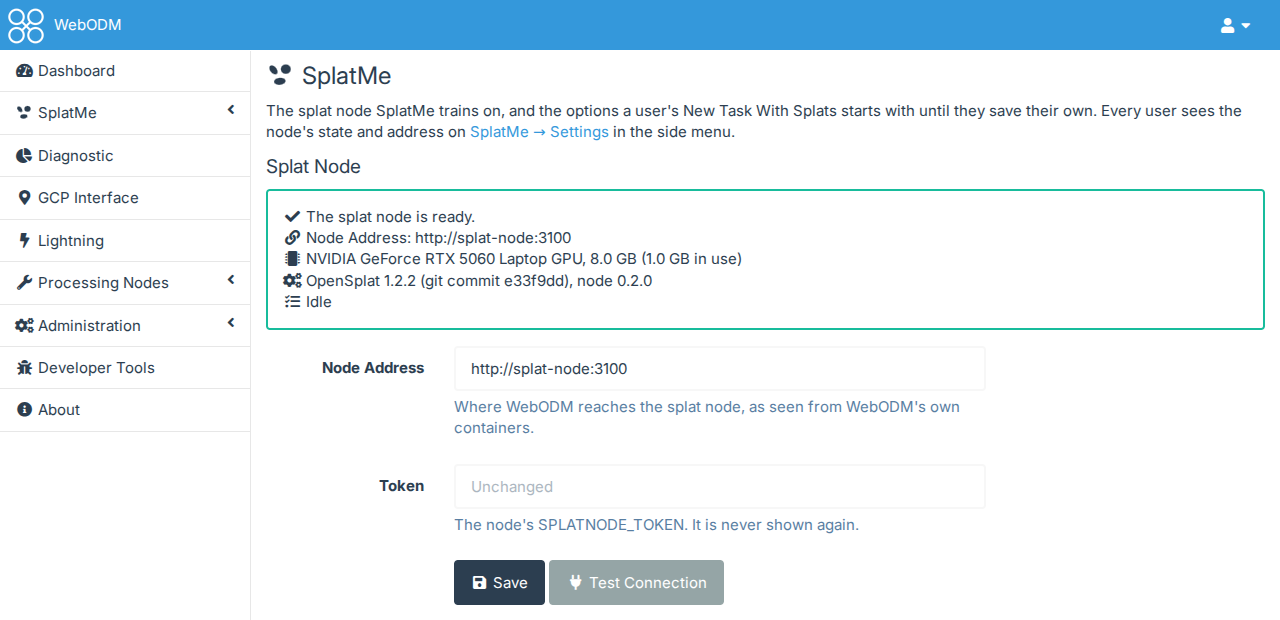
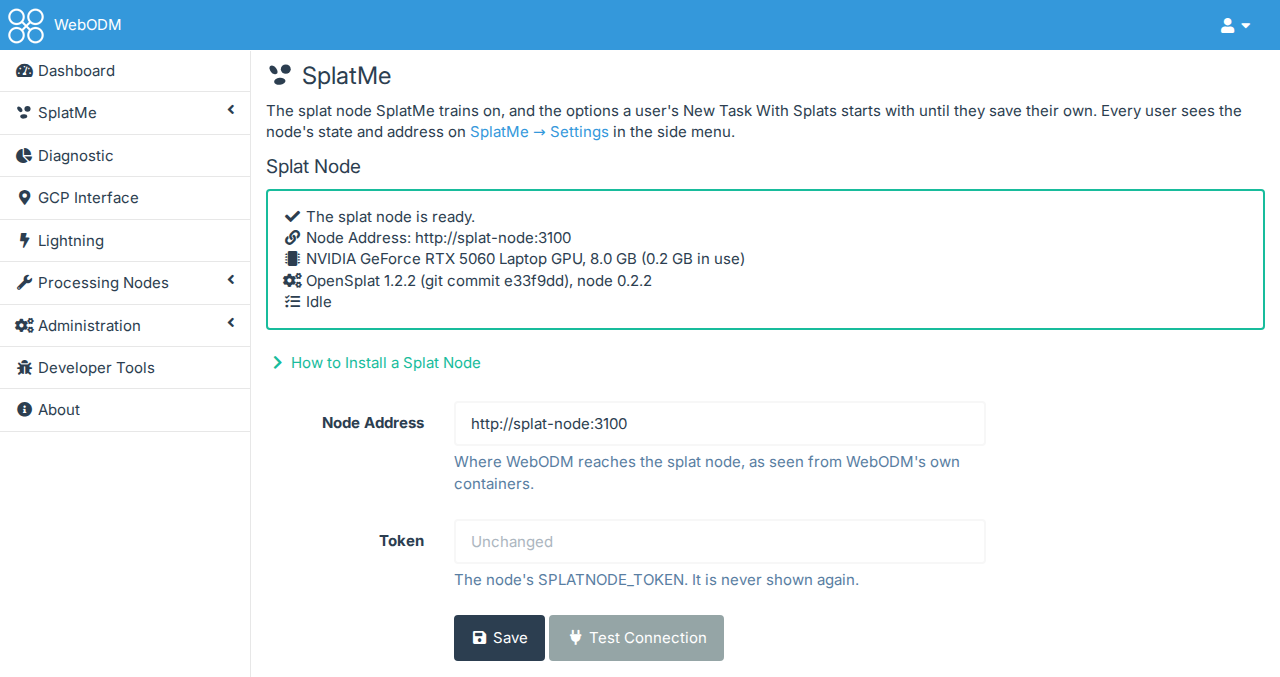
Docs: the review of 0.2.0's corrections and removals
Corrected against the code and the release: the image's size (4 GB download, 6.6 GB unpacked), the
install with several WebODMs (it stops and names them), continuing (more steps than the model has
grows it), the buttons' names (DJI Thermal Task, Train Splats Again), who sees Administration → SplatMe,
the uninstall's questions, the API's CSRF rule, log offset, listed and revive, the pages' wording
(splat model, gaussians, SplatMe → Settings, a node on another machine), CLAUDE.md's file lists, and the
Administration screenshot (node 0.2.2, How to Install a Splat Node). Removed what does not help the
reader: WebODM's internals and SplatMe's history, repetition, and the README's Requirements and
Status (on the docs' Home).

diff --git a/splatme/public/OptionsFields.jsx b/splatme/public/OptionsFields.jsx
@@ -94,7 +94,7 @@ export default class OptionsFields extends React.Component {
                     <React.Fragment>
                         {this.numberField("steps", _("Steps"), _(STEPS_HINT), "", <StagesTable total={form.steps} />)}
                         {this.numberField("image_size", _("Image Size"), _("The photos' longer side in pixels as the trainer sees them. Larger photos are scaled down whole, so each keeps its full view: nothing is cropped, only fine detail is lost. GPU memory depends on it most: lower it when the GPU runs out of memory. 0 keeps the photos as they are."), "", <ImageSizeTable photoSizes={this.props.photoSizes} imageSize={form.image_size} />)}
-                        {this.numberField("max_gaussians", _("Max Gaussians"), _("The most points the model may grow to, a limit for very large scenes. When the GPU runs out of memory, lower Image Size first."), _("The trainer's own limit"))}
+                        {this.numberField("max_gaussians", _("Max Gaussians"), _("The most gaussians the model may grow to, a limit for very large scenes. When the GPU runs out of memory, lower Image Size first."), _("The trainer's own limit"))}
                     </React.Fragment> : ""}
             </React.Fragment>
         );

diff --git a/splatme/templates/node.html b/splatme/templates/node.html
@@ -24,7 +24,7 @@ behind a link under it. The token is never shown.
         <p>The splat node trains the splats, in a container on a machine with an NVIDIA GPU (GTX 16 or RTX 20 to
             RTX 50 series). That machine needs the GPU's driver, Docker with Compose v2, and the
             <a href="https://docs.nvidia.com/datacenter/cloud-native/container-toolkit/latest/install-guide.html" target="_blank" rel="noopener noreferrer">NVIDIA Container Toolkit</a>.
-            The install downloads the node's image (6.6 GB), checks the GPU and starts the node; run it in a terminal
+            The install downloads the node's image (4 GB; 6.6 GB once unpacked), checks the GPU and starts the node; run it in a terminal
             on that machine.</p>
         <ul class="nav nav-tabs" role="tablist">
             <li role="presentation" class="active"><a href="#splatme-pane-here" role="tab" id="splatme-tab-here" aria-controls="splatme-pane-here" aria-selected="true">On WebODM's Machine</a></li>

diff --git a/splatme/public/TrainDialog.jsx b/splatme/public/TrainDialog.jsx
@@ -84,7 +84,7 @@ export default class TrainDialog extends React.Component {
                 {((check || {}).warnings || []).map((warning, i) =>
                     <div key={i} className="alert alert-warning"><i className="fa fa-exclamation-triangle"></i> {warning}</div>)}
                 {check && check.has_splats && !blocked && !resume ?
-                    <div className="alert alert-info">{_("This task already has a splats model. The new one replaces it when the training succeeds.")}</div> : ""}
+                    <div className="alert alert-info">{_("This task already has a splat model. The new one replaces it when the training succeeds.")}</div> : ""}
                 {error ? <div className="alert alert-danger">{error}</div> : ""}
                 <form className="form-horizontal" onSubmit={e => { e.preventDefault(); this.handleStart(); }}>
                     {trained > 0 && !blocked ?

diff --git a/splatme/templates/options.html b/splatme/templates/options.html
@@ -51,7 +51,7 @@ shared (the admin page) the administrators', for users who saved none, which onl
         <label class="col-sm-3 control-label" for="splatme-auto-gaussians">Max Gaussians</label>
         <div class="col-sm-9">
             <input type="number" min="1" class="form-control" id="splatme-auto-gaussians" placeholder="The trainer's own limit">
-            <span class="help-block">The most points the model may grow to, a limit for very large scenes. When the GPU
+            <span class="help-block">The most gaussians the model may grow to, a limit for very large scenes. When the GPU
                 runs out of memory, lower Image Size first.</span>
         </div>
     </div>

diff --git a/splatme/templates/settings.html b/splatme/templates/settings.html
@@ -6,7 +6,7 @@ SplatMe → Settings, for everyone: the splat node's state and address, and the 
 The node's settings are on the admin page (admin.html), under Administration.
 {% endcomment %}
 <h3><i class="fa fa-splat fa-fw"></i> SplatMe Settings</h3>
-<p>Trains a task's Gaussian splats on a splat node: a container with a GPU that runs beside WebODM. Training starts
+<p>Trains a task's Gaussian splats on a splat node: a container on a machine with an NVIDIA GPU, WebODM's or another. Training starts
     from <b>Train Splats</b> on <a href="/plugins/splatme/">SplatMe → Tasks</a>, or by itself when a task created
     with <b>New Task With Splats</b> completes.</p>
 

diff --git a/splatme/public/TrainSplats.jsx b/splatme/public/TrainSplats.jsx
@@ -49,7 +49,7 @@ export default class TrainSplats extends React.Component {
     };
 
     handleCancel = () => {
-        if (!window.confirm(_("Stop this training? The task keeps the splats model it has."))) return;
+        if (!window.confirm(_("Stop this training? The task keeps the splat model it has."))) return;
         this.setState({canceling: true, error: null});
         request("POST", "task/" + this.props.taskId + "/cancel").then(status => {
             if (this._mounted) this.setStatus(status);

diff --git a/splatme/templates/admin.html b/splatme/templates/admin.html
@@ -14,6 +14,6 @@ token, and the New Task With Splats options for users who saved none of their ow
 {% include node_part with editable=True %}
 
 <h4>New Task With Splats Defaults</h4>
-<p>What SplatMe's panel starts with for a user who has not saved options of their own on the SplatMe page.</p>
+<p>What SplatMe's panel starts with for a user who has not saved options of their own on SplatMe → Settings.</p>
 {% include options_part with shared=True %}
 {% endblock %}

diff --git a/docs/using.md b/docs/using.md
@@ -4,8 +4,8 @@
 
 Every user sees on **SplatMe → Settings** in the side menu whether the node is ready, its address, its GPU and
 its queue (never the token, and what is wrong with the node only as "ask an administrator"). The node's address
-and token are on **Administration → SplatMe** (superusers): WebODM has no plugin hook for Administration, so
-SplatMe adds its item to the list as WebODM 4.0.0 draws it; the page itself is at `/plugins/splatme/admin/`.
+and token are on **Administration → SplatMe** (staff see it, superusers change it), also at
+`/plugins/splatme/admin/`.
 
 1. **Train**: on **SplatMe → Tasks** in the side menu, which lists the tasks SplatMe can train in the projects
     the user can see (a **Project** filter narrows it), press **Train Splats** on a completed task. A task is
@@ -23,10 +23,8 @@ SplatMe adds its item to the list as WebODM 4.0.0 draws it; the page itself is a
     **Advanced** has the steps, the image size and the most gaussians as numbers:
     - **Steps**: the trainer grows the model (adds gaussians where the photos show detail it lacks) in the first
       half of the steps, up to step 15,000, then refines it; steps beyond 30,000 only refine it. A table under
-      the number gives the share of the steps in each stage, with how many times the model is grown: **Warm-up**
-      (the starting points from the point cloud adjusted), **Growing**, **Refining** (the model adjusted once
-      every 32 photos, faint gaussians removed every 3,000 steps) and **Polishing** (the same, once every 64
-      photos); each heading's hover tip says what the stage does. A number of steps the trainer handles badly
+      the number gives the share of the steps in each stage (**Warm-up**, **Growing**, **Refining**,
+      **Polishing**), with how many times the model is grown; each heading's hover tip says what the stage does. A number of steps the trainer handles badly
       gets a note: up to 2,000 steps grows no new gaussians, and 3,001 to 5,999 trains worse than 3,000.
     - **Image Size** (1,600 by default): the photos' longer side as the trainer sees them. Larger photos are
       scaled down whole, so each keeps its full view: nothing is cropped, only fine detail is lost; smaller ones
@@ -39,8 +37,7 @@ SplatMe adds its item to the list as WebODM 4.0.0 draws it; the page itself is a
 
     **Ignore Sky** is for photos that show the sky, which a training otherwise turns into haze around the
     model: SplatMe finds the sky in each photo and the training leaves those pixels out. It looks only above
-    each photo's horizon, known from where the camera pointed, so photos that look down are not searched. Finding the sky takes a few minutes more (about 0.2 s a
-    photo on WebODM's CPU), and the task's line then says in how many photos it was found. The first training
+    each photo's horizon, known from where the camera pointed, so photos that look down are not searched. Finding the sky takes a few minutes more, and the task's line then says in how many photos it was found. The first training
     with it downloads the sky model (180 MB, the one ODX uses for its sky removal) from ODX's releases on
     github.com into WebODM's media folder (`plugins/splatme/models`), so WebODM must reach that address once.
 
@@ -49,38 +46,34 @@ SplatMe adds its item to the list as WebODM 4.0.0 draws it; the page itself is a
     model the task shows, as the processing leaves them out of the point cloud and the mesh. The training itself still sees the
     photos whole, and the model kept for continuing is not cropped.
 
-    **Thermal tasks**: a task made by the DJI Thermal Analyzer plugin's Thermal Task button holds TIFFs of
+    **Thermal tasks**: a task made by the DJI Thermal Analyzer plugin's **DJI Thermal Task** button holds TIFFs of
     temperatures, which SplatMe draws as pictures to train on. It uses one range for the whole task, from its coldest to its hottest pixels (the coldest and hottest 1% left
     out), so a surface has the same colour in every photo. **Thermal Colours** in the dialog, which takes the
     place of Ignore Sky, chooses the palette: Grayscale (white is hot, the default), Black Hot, Iron, Magma,
-    Inferno, Plasma, Viridis, Cividis or Jet (all but Iron are WebODM's own colour maps). The task's line then
+    Inferno, Plasma, Viridis, Cividis or Jet. The task's line then
     names the palette and the temperatures it spans, in WebODM's unit system. Thermal photos are small (640 × 512
     on DJI's M4T): training takes about a quarter of the times above and about 1 GB of GPU memory, and Fine is
-    much sharper than Standard. DJI Thermal Analyzer itself need
-    not be installed for this; TIFFs from other software, whose temperatures may be in another unit, are not
-    listed.
+    much sharper than Standard. TIFFs from other software are not listed.
 
-    A task SplatMe has trained can be trained further instead of starting over: the dialog then opens with
+    A task SplatMe has trained can be trained further instead of starting over: **Train Splats Again** then opens with
     **Start Over** and **Continue From Step** (the steps the model has), and continuing asks only **More
     Steps**. The other options stay as the model was trained. Continuing sharpens the model the task has: the
     model grows only before half the new total of steps (and before step 15,000), so continuing a model by as
-    many steps again, or beyond, adds no gaussians (the steps table says so), and a model that lacks detail
+    many steps again, or fewer, adds no gaussians (the steps table says so), and a model that lacks detail
     everywhere is better started over at a higher Quality. Processing the task again, or uploading another model in WebODM's Splats dialog, ends what can
     be continued. A task processed again while its splats train has that training canceled (its model would not
     fit the new results), and is trained again on the new results when it is set to Train Splats When Completed.
 2. **Follow it**: the task's row shows the stage (while training, the step, such as "Step 4,650 of 7,000,
     about 12 min left": the time the steps left take at the rate of the last few minutes, once it can tell), a
     progress bar, **Cancel** and **Show Log** (the trainer's output), to everyone who can see the task and after
-    a reload. A download of the model that stops is tried again, and a node that stops answering (being
-    upgraded) is waited for up to an hour. When it is done, **View in 3D** opens the model. A task that cannot be trained (failed or canceled
+    a reload. A download of the model that stops is tried again, and a node that stops answering, or answers an
+    error (being upgraded), is waited for up to an hour. When it is done, **View in 3D** opens the model. A task that cannot be trained (failed or canceled
     processing; for users who may only look at the project, any task) says why.
 
     On the Dashboard, a task's panel has a **Splats** line under its Task ID ("Trained, 7,000 steps", or the
     training's step) with **Open in SplatMe**, which opens the Tasks page at that task (for a task SplatMe can
-    train; another says that SplatMe trains tasks whose photos are JPEG). A task's name on the Tasks page opens the
-    Dashboard at its panel, with only its project shown. Training is not in the
-    task's panel itself: WebODM keeps only the first plugin's answer to that panel's hook, so a SplatMe button
-    there dropped other plugins' buttons (such as Lightning's Share).
+    train; another says why SplatMe does not list it). A task's name on the Tasks page opens the Dashboard at its
+    panel, with only its project shown.
 
 3. **Train automatically**: on **SplatMe → Tasks**, press **New Task With Splats** in a project's heading
     (or beside **Select Images and GCP** in a project on the Dashboard, which opens it there) and pick the
@@ -89,30 +82,23 @@ SplatMe adds its item to the list as WebODM 4.0.0 draws it; the page itself is a
     Completed**, ticked, with the Quality, Ignore Sky (or Thermal Colours when the photos picked are TIFFs), Crop
     To Boundary and Advanced. While Train Splats When Completed is ticked, photos SplatMe cannot train (not JPEG,
     nor all DJI Thermal Analyzer's TIFFs) are named there and hold up Start Processing. On **Start Processing**,
-    SplatMe creates the task through WebODM's API, saves its training setting, uploads the files (a large file
-    in parts; a file whose part is lost is sent again from its first part, as WebODM appends parts) and starts its processing; the row then follows the
+    SplatMe creates the task through WebODM's API, saves its training setting, uploads the files and starts its processing; the row then follows the
     processing (its progress, and WebODM's error if it fails) and the training. If some files still fail,
     **Try Again** sends them, or **Cancel** removes the task. Leaving the page during the upload stops it, and
     another New Task With Splats waits until it is done.
     Unticked, or made from WebODM's own Select Images and GCP, the task is an ordinary one. The panel
     starts with the user's own options, saved on **SplatMe → Settings** (**New Task With Splats**); until they
     save some, with the administrators' defaults from **Administration → SplatMe** (High until they change
-    them). On **SplatMe → Tasks**, every task shows **Train Splats When Completed** with **Change**, which
-    switches the training on or off and changes its options. A training that could not start shows on the task
+    them). On **SplatMe → Tasks**, a task's row shows **Train Splats When Completed** (On or Off), with **Change**
+    for those who may train it, which switches the training on or off and changes its options. A training that could not start shows on the task
     as a failed training, with the reason.
 
-    WebODM has no plugin hooks for the Dashboard's button and the task panel's line, so SplatMe puts them in the
-    page as WebODM 4.0.0 draws it (the button beside other plugins' buttons, such as DJI Thermal Analyzer's). If
-    a WebODM version draws its page differently, they are not there, and the Tasks page still creates, trains
-    and sets the training.
+    If another WebODM version draws its Dashboard differently, the button and the line are missing; the Tasks
+    page still creates, trains and sets the training.
 
-Training needs the right to change the task's project. The task must have completed with a point cloud and
-still have its photos (JPEG, or DJI Thermal Analyzer's TIFFs). The trained model replaces the task's splat model only when training succeeds,
-and then shows in the task's 3D view like a model uploaded by hand. WebODM converts it for its viewer with its
-own converter, as it does a model uploaded by hand; the model as the trainer wrote it is kept in the task's
-folder (`assets/splats/splatme-model.ply`, about 250 bytes per gaussian) for continuing, and counts in the
+Training needs the right to change the task's project. The trained model replaces the task's splat model only
+when training succeeds, and then shows in the task's 3D view like a model uploaded by hand; the model as the
+trainer wrote it is kept in the task's folder (`assets/splats/splatme-model.ply`, about 250 bytes per gaussian) for continuing, and counts in the
 task's size.
 
-A training takes a place in WebODM's worker only while it exports the task and while it imports the model:
-while the node has trainings (queued or training), one place follows them all, so many trainings waiting on the
-node do not hold up WebODM's own processing.
+Trainings waiting on the node do not hold up WebODM's own processing.

diff --git a/docs/api.md b/docs/api.md
@@ -1,6 +1,7 @@
 # The Plugin's API
 
-Under `/api/plugins/splatme/`, with a WebODM login.
+Under `/api/plugins/splatme/`, with a WebODM login. A POST also needs the session's CSRF token (`X-CSRFToken`), as
+WebODM routes a plugin's API through a plain Django view.
 
 | Request | Does |
 |---|---|
@@ -8,12 +9,13 @@ Under `/api/plugins/splatme/`, with a WebODM login.
 | `POST node` (`url`, `token`, `save`) | Administrators: sets the address and token; with `save` false only tries them |
 | `GET task/<id>/check` | Before training: why the task or the node cannot train, warnings, the options' ranges, `boundary` (whether the task was processed with one), `thermal` (whether its photos are DJI Thermal Analyzer's TIFFs), `photo_sizes` (the photos' `[width, height]`, one per camera, empty before processing) and `trained_steps`: the steps of the model a training can continue from |
 | `POST task/<id>/train` | Trains a completed task's splats. Options: `steps` (30000), `image_size` (1600, the photos' longer side in pixels, larger photos scaled down whole; 0 keeps them as they are), `max_gaussians`, `sh_degree`, `ignore_sky` (true leaves the sky out; not for a thermal task), `crop` (false keeps the splats outside the task's boundary), `palette` (a thermal task's colours: `gray`, the default, `gray_r`, `iron`, `magma`, `inferno`, `plasma`, `viridis`, `cividis`, `jet`). With `resume` true it continues the task's trained model: `steps` is then how many more, and the other options are the ones that model was trained with |
-| `GET task/<id>/status` | The job's `state`, `progress`, `status`, `error`, `sky_masks` (in how many photos sky was found, with `ignore_sky`), `cropped` (the gaussians left out for being outside the boundary), `thermal` (a thermal task's `palette` and the range it spans, `low` and `high`, in degrees Celsius), `time_left` (while training, the seconds the steps left should take, once known), whether the task has a splat model and whether the user may train it; for a task set to train, `listening` (whether WebODM's worker tells the plugin of completed tasks) |
+| `GET task/<id>/status` | The job's `state`, `progress`, `status`, `error`, `sky_masks` (in how many photos sky was found, with `ignore_sky`), `cropped` (the gaussians left out for being outside the boundary), `thermal` (a thermal task's `palette` and the range it spans, `low` and `high`, in degrees Celsius), `time_left` (while training, the seconds the steps left should take, once known), whether the task has a splat model and whether the user may train it; for a task set to train, `listening` (whether WebODM's worker tells the plugin of completed tasks). With `?listed=1` also `listed`, whether SplatMe → Tasks lists the task, and `unlisted`, why not |
 | `POST task/<id>/cancel` | Stops the job |
-| `GET task/<id>/log?offset=<bytes>` | The trainer's output |
+| `GET task/<id>/log?offset=<bytes>` | The trainer's output from that byte on; the offset to ask from next is in the `X-Log-Offset` header |
 | `GET task/<id>/auto` | Whether the task is trained when it completes, with which options |
 | `POST task/<id>/auto` | Sets that for the task: `enabled` and the options of `train` |
 | `GET automation` | The options SplatMe's panel starts with for the user's new task: their own (`own` true) or the administrators' defaults, and `listening`, whether WebODM's worker tells the plugin of completed tasks. With `?ranges=1` also the node's range of each option |
 | `POST automation` (options) | Saves the user's own options; with `reset` true drops them |
 | `GET automation/shared`, `POST automation/shared` (options) | The administrators' defaults, for users who saved none of their own; superusers set them |
+| `GET revive` | Takes over the trainings that lost their worker (WebODM's pages ask it); answers 204 |
 | `GET tasks` | The tasks SplatMe can train in the projects the user may see (`?project=<id>` for one), by project (a project with none is left out), each with WebODM's `status`, `running_progress` and `last_error`, and its `splats` as `task/<id>/status` gives them; and `addable`, the projects the user may add a task to: SplatMe's Tasks page, in one request |

diff --git a/docs/install.md b/docs/install.md
@@ -12,23 +12,19 @@ By a WebODM administrator, in this order:
     Plugin (.zip)** on the same page.
 2. **Restart WebODM once**, with the options it was started with: `./webodm.sh restart` in WebODM's folder,
     plus any options given to `./webodm.sh start` (`--port`, `--hostname`, `--media-dir`, `--ssl`…), which
-    `webodm.sh` does not remember. WebODM's web server runs several
-    processes and only the one that received the plugin loads it, so until the restart SplatMe's pages, scripts
-    and API fail now and then; and WebODM's worker, which tells SplatMe a task has completed, loads plugins only
-    when it starts. Until then SplatMe → Settings, SplatMe's panel and a task set to train say that tasks are
-    not trained by themselves yet.
+    `webodm.sh` does not remember. Until then SplatMe's pages fail now and then, and tasks are not trained by
+    themselves (SplatMe → Settings, SplatMe's panel and a task set to train say so).
 3. **The splat node**, on the machine with the GPU:
 
     ```
     curl -fsSL https://github.com/WinuxNomacs/webodm-splatme/releases/latest/download/splatnode.sh | bash -s install
     ```
 
-    It downloads the node's image (6.6 GB; deleted again when a container cannot use the GPU), checks the GPU and
+    It downloads the node's image (4 GB; 6.6 GB once unpacked; deleted again when a container cannot use the GPU), checks the GPU and
     starts the node; a failed install is undone, so it can be run again. **On WebODM's machine** the node joins
-    the Docker network of WebODM's worker (which runs the trainings; behind a reverse proxy WebODM's web server is
-    on the proxy's network too), listens on that machine only, and SplatMe's settings get
-    its address and token: there is nothing to enter. (With several WebODMs on the machine, it names them and
-    asks for one: `--webodm <its webapp container>`. A node installed before the plugin is connected afterwards
+    the Docker network of WebODM's worker, listens on that machine only, and SplatMe's settings get
+    its address and token: there is nothing to enter. (With several WebODMs on the machine, it stops and names
+    them: run it again with `--webodm <its webapp container>`. A node installed before the plugin is connected afterwards
     with `connect`, which also moves the node to a reinstalled WebODM's network.) **On another machine**, or with `--standalone`, it listens on port 3100 (`--port`) and
     prints its address and token: enter them on **Administration → SplatMe** in WebODM's side menu, where **Test
     Connection** says what is wrong (no answer, wrong token, no GPU, a node too old) before anything is saved.
@@ -52,15 +48,15 @@ Between trainings: a training running during an upgrade picks up again or fails 
     kept (they are in WebODM's database, not in the plugin's folder). **Restart WebODM once** afterwards. The
     sky model is downloaded again by the next training with Ignore Sky, as an update replaces the plugin's folder.
 - **The splat node**: `curl -fsSL …/splatnode.sh | bash -s upgrade` (the same address as above) downloads the
-    newest image, restarts the node with the script's current compose file, keeping its jobs, token and port, and
+    newest image, restarts the node keeping its jobs, token and port, and
     deletes the previous image. SplatMe needs a node of version 0.2.0 or
     later, and **Test Connection** says when the node is older.
 
 ## Uninstall
 
 - **The splat node**: `curl -fsSL …/splatnode.sh | bash -s uninstall` stops and removes the node and its folder
-    (`~/splatnode`), and asks before deleting its jobs' data and its image, and before removing it from
-    SplatMe's settings (`--yes` answers yes to all).
+    (`~/splatnode`), and asks before deleting its jobs' data and its image, and, for a node on WebODM's machine,
+    before removing it from SplatMe's settings (`--yes` answers yes to all).
 - **The plugin**: its row's bin on Administration → Plugins removes the plugin's folder, with the sky model it
     downloaded. It leaves:
     - **The trained models**: each task keeps its model in its 3D view, as a model uploaded by hand, and the

diff --git a/docs/getting-started.md b/docs/getting-started.md
@@ -1,7 +1,6 @@
 # Getting Started
 
-This page walks through a fresh install, from nothing to a first trained model, then an upgrade. Each step says
-what you should see, so you know it worked before going on. It is done by a WebODM administrator (a superuser)
+This page walks through a fresh install, from nothing to a first trained model, then an upgrade. It is done by a WebODM administrator (a superuser)
 with a terminal on WebODM's machine, and on the GPU machine if that is another one. The
 [reference](install.md) has every option.
 
@@ -43,9 +42,7 @@ In WebODM's folder, restart it with the options it was started with (`webodm.sh`
 
 Add any options you gave `./webodm.sh start`, such as `--port`, `--hostname`, `--media-dir` or `--ssl`.
 
-Until this restart, SplatMe's pages fail now and then and tasks are not trained by themselves: WebODM's web server
-runs several processes and only the one that received the plugin loads it, and WebODM's worker loads plugins only
-when it starts.
+Until this restart, SplatMe's pages fail now and then and tasks are not trained by themselves.
 
 **You should see**, after the restart: **SplatMe** in WebODM's side menu (with **Tasks** and **Settings**), and
 **SplatMe** under **Administration**.
@@ -63,8 +60,8 @@ set yet, **Set Up a Splat Node** shows the commands, each with a **Copy** button
     curl -fsSL https://github.com/WinuxNomacs/webodm-splatme/releases/latest/download/splatnode.sh | bash -s install
     ```
 
-    It downloads the node's image (6.6 GB the first time), checks the GPU, and starts the node on WebODM's Docker
-    network. It ends with lines like:
+    It downloads the node's image (4 GB the first time; 6.6 GB once unpacked), checks the GPU, and starts the node
+    on WebODM's Docker network. Its last lines include:
 
     ```
     WebODM found: webapp (network webodm_default)
@@ -73,7 +70,7 @@ set yet, **Set Up a Splat Node** shows the commands, each with a **Copy** button
     ```
 
     There is nothing to enter: **reload Administration → SplatMe**. With several WebODMs on the machine, the
-    install names them and asks for one: add `--webodm <its webapp container>`.
+    install stops and names them: run it again with `--webodm <its webapp container>`.
 
 === "On Another Machine"
 
@@ -83,7 +80,7 @@ set yet, **Set Up a Splat Node** shows the commands, each with a **Copy** button
     curl -fsSL https://github.com/WinuxNomacs/webodm-splatme/releases/latest/download/splatnode.sh | bash -s install --standalone
     ```
 
-    It downloads the node's image (6.6 GB the first time), checks the GPU, starts the node on port 3100
+    It downloads the node's image (4 GB the first time; 6.6 GB once unpacked), checks the GPU, starts the node on port 3100
     (`--port` for another), and prints its address and token:
 
     ```
@@ -97,7 +94,7 @@ set yet, **Set Up a Splat Node** shows the commands, each with a **Copy** button
     machine reach that port, or put an [HTTPS proxy](splat-node.md#https-to-a-node-on-another-machine) in front
     of it.
 
-A failed install is undone, so it can simply be run again once the problem it names is fixed.
+A failed install is undone, so it can be run again once the problem it names is fixed.
 
 **You should see**, on **Administration → SplatMe**, a green box: "The splat node is ready.", its address, your
 GPU and its memory, the trainer and the node's version, and "Idle".
@@ -106,8 +103,8 @@ GPU and its memory, the trainer and the node's version, and "Idle".
 
 ### 5. Train a First Task
 
-1. Open **SplatMe → Tasks** in the side menu. It lists the tasks SplatMe can train: completed tasks whose photos
-   are JPEG (or DJI Thermal Analyzer's TIFFs).
+1. Open **SplatMe → Tasks** in the side menu. It lists the tasks SplatMe can train: tasks whose photos are JPEG
+   (or DJI Thermal Analyzer's TIFFs).
 2. Press **Train Splats** on a task. For a quick first check choose the **Draft** quality (3,000 steps, about 2
    minutes on an 8 GB GPU), then **Start Training**.
 3. The task's row shows the stage, then the step with the time left, a progress bar, **Cancel** and **Show Log**.

diff --git a/CHANGELOG.md b/CHANGELOG.md
@@ -25,15 +25,14 @@ Fixes from a review of 0.1.1. Works with splat node 0.2.0 or later; node 0.2.2 c
   thousands of photos finds its range in bounded memory.
 - **SplatMe → Tasks**: New Task With Splats no longer replaces a task whose files are being sent; it names photos
   SplatMe cannot train. Closing Train Splats or Change while it is answered no longer loses the training or the
-  setting. A task set to train is followed when it completes, until its training shows; while only trainings are
-  followed, only their rows are asked for. A task's name opens the Dashboard at its project, wherever it is in
+  setting. A task set to train is followed when it completes, until its training shows. A task's name opens the Dashboard at its project, wherever it is in
   the pages. The dialogs keep the keyboard's focus.
 - **Dashboard**: the Splats line keeps following after a failed request, and leaves out Open in SplatMe for a
   task SplatMe cannot train. SplatMe's button stays last among the project's buttons.
 - **New task upload**: a file whose part is lost is sent again from its first part (WebODM appends parts).
 - **node/splatnode.sh**: upgrade and status work when the node does not answer; install joins the network
   WebODM's worker uses (behind a reverse proxy it joined the proxy's); connect moves the node to a reinstalled
-  WebODM's network; upgrade rewrites the compose file and deletes the previous image (6.6 GB each); a failed
+  WebODM's network; upgrade rewrites the compose file and deletes the previous image (6.6 GB each, unpacked); a failed
   install is undone; a port in use is refused first; uninstall clears the token too.
 - **Splat node 0.2.2**: a failure inside the node no longer leaves it stuck or silent. A full disk fails the job it
   hit and the next one trains; a trainer that won't stop is killed, and one that prints nothing for a long time is
@@ -46,9 +45,8 @@ Fixes from a review of 0.1.1. Works with splat node 0.2.0 or later; node 0.2.2 c
   each step with what to expect. The README introduces SplatMe and links to it.
 - **Administration → SplatMe** has the splat node's install steps, each command with a Copy button: in place
   of the node's state while no node is set, and behind How to Install a Splat Node under it once one is.
-- The docs say to restart WebODM with the options it was started with, and how to reach a node on another
-  machine over HTTPS (a TLS proxy in front of it); `splatnode.sh upgrade` keeps a node's `SPLATNODE_BIND`, so a
-  node bound to its own machine behind that proxy stays so.
+- `splatnode.sh upgrade` keeps a node's `SPLATNODE_BIND`, so a node bound to its own machine behind an HTTPS
+  proxy stays so.
 
 ## 0.1.1 (2026-11-16)
 
